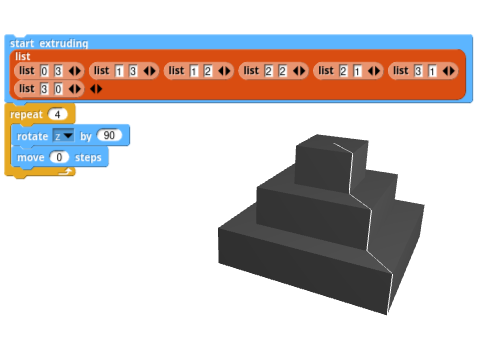
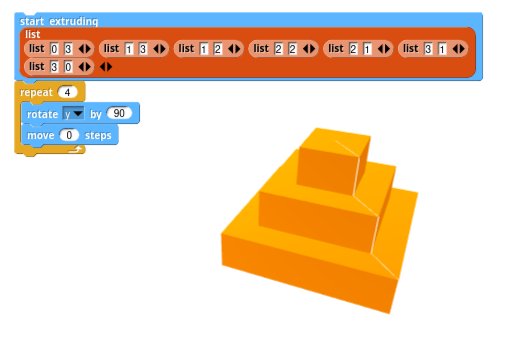
updated docs to match new axes orientation

diff --git a/docs/index.html b/docs/index.html
@@ -1,6 +1,5 @@
 <html><head>
-<meta http-equiv="content-type" content="text/html; charset=UTF-8">
-        <script src="marked.min.js" integrity="sha256-GGbzkRkTtLnv3bOg61WAnkjYHxtsiVqu+tjMj6ssDVw=" crossorigin="anonymous"></script>
+        <script src="https://cdn.jsdelivr.net/npm/marked@1.1.0/marked.min.js" integrity="sha256-GGbzkRkTtLnv3bOg61WAnkjYHxtsiVqu+tjMj6ssDVw=" crossorigin="anonymous"></script>
         <style>
 html { background: #aaa; }
 
@@ -72,7 +71,7 @@ all that Beetle Blocks did, and some more.</p>
 <p>You can find the preliminary documentation for the upcoming extension below.</p>
 <h1 id="3d-beetle-extension">3D Beetle Extension</h1>
 <h2 id="a-tiny-bit-of-history">A Tiny Bit of History</h2>
-<p>The 3D Beetle extension is heavily inspired in the <a href="http://beetleblocks.com/">Beetle
+<p>The 3D Beetle extension is heavily inspired in the <a href="http://beetleblocks.com">Beetle
 Blocks</a> Snap<em>!</em> mod, originally designed by Eric
 Rosenbaum and Duks Koschitz and developed by Bernat Romagosa during the years
 2014-2020.</p>
@@ -165,7 +164,7 @@ shape:</p>
 path"></p>
 </blockquote>
 <h4 id="scale-and-offset">Scale and Offset</h4>
-<p>Extrusion shapes can be scaled up or down by using the <img src="set_scale.png" alt="">
+<p>Extrusion shapes can be scaled up or down by using the <img src="blocks/set_scale.png" alt="">
 block. The scale is a multiplier that is applied to the dimensions of the
 current extrusion shape.</p>
 <blockquote>
@@ -194,7 +193,7 @@ path followed by a Snap<em>!</em> sprite and turn into an extrusion base.</p>
 <h4 id="arbitrary-extrusion-base-transformations">Arbitrary Extrusion Base Transformations</h4>
 <p>All extrusion shapes are just lists of points, which are in turn just lists of
 two numbers. Here's the list of points of the default triangle extrusion:</p>
-<p><img src="shape_points_002.png" alt=""></p>
+<p><img src="shape_points.png" alt=""></p>
 <p>Thus, you can apply any transformations you wish to the shape as you would with
 any other list in Snap<em>!</em>. For instance, you could apply a <code>ceiling</code>
 operation to the triangle shape to turn it into a right triangle:</p>
@@ -218,7 +217,7 @@ generate a wide variety of shapes, such as revolution solids.</p>
 <p>Since the only way to generate volumes with the Beetle is to extrude 2D shapes
 along a path, it can be interesting to start by taking a look at how to generate
 a bunch of basic solids.</p>
-<p>An important block that you may want to have at hand is <img src="reset_002.png" alt="">. This
+<p>An important block that you may want to have at hand is <img src="reset.png" alt="">. This
 block will remove all geometry from the 3D view, and get the Beetle back to its
 original position.</p>
 <h4 id="cube">Cube</h4>
@@ -272,16 +271,6 @@ order to close the cylinder.</p>
 <h4 id="tube-with-thick-walls">Tube with Thick Walls</h4>
 <p>The previous tube has walls of zero thickness. An easy way to achieve a thick
 wall is to extrude a custom rectangle along a circular path:</p>
-<blockquote>
-<p><img src="thick_glitched_tube_code.png" alt=""></p>
-</blockquote>
-<p>Notice how the tube presents a little glitch. The last extrusion step didn't
-quite close the walls as you may have expected. That is because the extrusion
-step is performed when the beetle moves, and the beetle moved before the last
-15º rotation, when it happened to end up at the same spot and rotation it
-started from.</p>
-<p>One simple solution is to perform an extra extrusion by asking the beetle to
-move zero steps after the loop:</p>
 <blockquote>
 <p><img src="thick_tube_code.png" alt=""></p>
 </blockquote>
@@ -496,9 +485,7 @@ a little bit with the pen color.</p>
 </thead>
 <tbody><tr>
 <td><img src="blocks/reset.png" alt=""></td>
-<td>Erases all 3D geometry and takes the Beetle back to its original 
-position and orientation. It also erases the position and rotation stack
- (see push/pop position blocks). It does keep the current Beetle color.</td>
+<td>Erases all 3D geometry and takes the Beetle back to its original position and orientation. It also erases the position and rotation stack (see push/pop position blocks). It does keep the current Beetle color.</td>
 </tr>
 <tr>
 <td><img src="blocks/go_home.png" alt=""></td>
@@ -562,10 +549,7 @@ position and orientation. It also erases the position and rotation stack
 </tr>
 <tr>
 <td><img src="blocks/start_extruding.png" alt=""></td>
-<td>Starts leaving a trail in the specified shape. Also accepts a list of 2D points in the form <code>(( x1 y1 ) (x2 y2) (x3 y3) ... )</code>
- as a base shape, such that it describes a curve or closed polygon. The 
-Beetle will consider the list to describe a closed polygon when the 
-first and last points are the same. The <code>sprite positions</code> menu options needs to be used in conjunction with the <code>log sprite positions</code> block.</td>
+<td>Starts leaving a trail in the specified shape. Also accepts a list of 2D points in the form <code>(( x1 y1 ) (x2 y2) (x3 y3) ... )</code> as a base shape, such that it describes a curve or closed polygon. The Beetle will consider the list to describe a closed polygon when the first and last points are the same. The <code>sprite positions</code> menu options needs to be used in conjunction with the <code>log sprite positions</code> block.</td>
 </tr>
 <tr>
 <td><img src="blocks/stop_extruding.png" alt=""></td>
@@ -577,9 +561,7 @@ first and last points are the same. The <code>sprite positions</code> menu optio
 </tr>
 <tr>
 <td><img src="blocks/log_sprite_positions.png" alt=""></td>
-<td>Records all positions visited by a regular Snap<em>!</em> sprite 
-while running the blocks inside so that they can be extruded later by 
-the Beetle. To extrude the logged positions, select <code>sprite positions</code> from the dropdown menu in the <code>start extruding</code> block.</td>
+<td>Records all positions visited by a regular Snap<em>!</em> sprite while running the blocks inside so that they can be extruded later by the Beetle. To extrude the logged positions, select <code>sprite positions</code> from the dropdown menu in the <code>start extruding</code> block.</td>
 </tr>
 <tr>
 <td></td>
@@ -595,30 +577,19 @@ the Beetle. To extrude the logged positions, select <code>sprite positions</code
 </tr>
 <tr>
 <td><img src="blocks/set_shape_offset.png" alt=""></td>
-<td>Offsets the extrusion center by amounts specified by the provided 
-two-item list. The first item in the list represents the horizontal 
-offset, and the second one represents the vertical offset.</td>
+<td>Offsets the extrusion center by amounts specified by the provided two-item list. The first item in the list represents the horizontal offset, and the second one represents the vertical offset.</td>
 </tr>
 <tr>
 <td><img src="blocks/set_scale.png" alt=""></td>
-<td>Sets the scale (multiplier) of the extrusion trail section, or the 
-scale of the Beetle's movements, depending on the selection, to the 
-specified value. When <em>shape</em> is selected, if provided with a 
-list of two numbers, the first one will affect the horizontal scale and 
-the second one will affect the vertical scale of the shape.</td>
+<td>Sets the scale (multiplier) of the extrusion trail section, or the scale of the Beetle's movements, depending on the selection, to the specified value. When <em>shape</em> is selected, if provided with a list of two numbers, the first one will affect the horizontal scale and the second one will affect the vertical scale of the shape.</td>
 </tr>
 <tr>
 <td><img src="blocks/change_scale.png" alt=""></td>
-<td>Changes the scale (multiplier) of the extrusion trail section, or 
-the scale of the Beetle's movements, depending on the selection, by the 
-specified amount. When <em>shape</em> is selected, if provided with a 
-list of two numbers, the first one will affect the horizontal scale and 
-the second one will affect the vertical scale of the shape.</td>
+<td>Changes the scale (multiplier) of the extrusion trail section, or the scale of the Beetle's movements, depending on the selection, by the specified amount. When <em>shape</em> is selected, if provided with a list of two numbers, the first one will affect the horizontal scale and the second one will affect the vertical scale of the shape.</td>
 </tr>
 <tr>
 <td><img src="blocks/scale.png" alt=""></td>
-<td>Reports the scale (multiplier) of the extrusion trail section, or 
-the scale of the Beetle's movements, depending on the selection.</td>
+<td>Reports the scale (multiplier) of the extrusion trail section, or the scale of the Beetle's movements, depending on the selection.</td>
 </tr>
 <tr>
 <td></td>
@@ -642,3 +613,4 @@ the scale of the Beetle's movements, depending on the selection.</td>
 </tr>
 </tbody></table>
 </body></html>
+

diff --git a/docs/index.md b/docs/index.md
@@ -253,17 +253,6 @@ order to close the cylinder.
 The previous tube has walls of zero thickness. An easy way to achieve a thick
 wall is to extrude a custom rectangle along a circular path:
 
-> ![](thick_glitched_tube_code.png)
-
-Notice how the tube presents a little glitch. The last extrusion step didn't
-quite close the walls as you may have expected. That is because the extrusion
-step is performed when the beetle moves, and the beetle moved before the last
-15º rotation, when it happened to end up at the same spot and rotation it
-started from.
-
-One simple solution is to perform an extra extrusion by asking the beetle to
-move zero steps after the loop:
-
 > ![](thick_tube_code.png)
 
 An even easier way to generate a tube with thick walls is to scale a square
